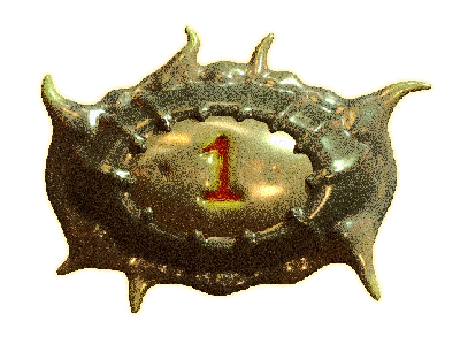
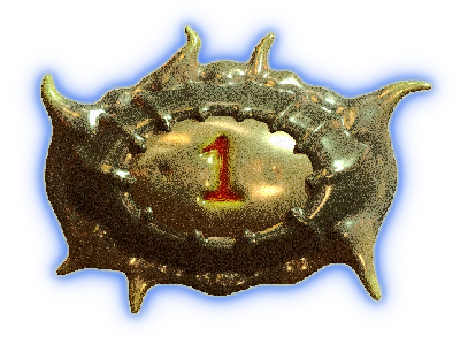
make the transition more seamless
now tot trigger to change a page is a value that goes up and when it arrives at threshhold it still goes up for a second. tI think a beter way would be to trigger it with a true statement that will stays as is even if the value linked to it stiil goup after the threshold. It is all to fix a wierd cut of a fraction of second when i jum to the next page.

Changed region(s): [[0.0609, 0.0291, 0.9739, 0.9593]]

diff --git a/js/menu.js b/js/menu.js
@@ -11,6 +11,8 @@ let game1Blue = {
   height: 180,
   maxY: 280,
   minY: 200,
+  maxX: 480,
+  minX: 420,
 };
 
 let game2Green = {
@@ -42,19 +44,32 @@ let game4Yellow = {
 
 ///////////////////////////CINEMATIC variables////////////////////////////////////
 /////////////////////////////CINEMATIC variables////////////////////////////////////
-menuTitleTimer = 0; ////starts at zero will go up to the limit that will trigger titleOn = false////
+let menuTitleTimer = 0; ////starts at zero will go up to the limit that will trigger titleOn = false////
+let menuClicked = false; ////will be true when mouse is clicked to trigger next event////
 let menuInputEnabled = false; //WHEN false will start opacity7 going Down.
 let menuOpacityImg7 = 255;
+let othertOUCHED = false;
 
 let goGameTimer = 0; ////timer to go to the game after click////
 let fadeOutToGame = 0; ////overall fade to black////
-let fadeOutToGame1 = 0; ////actually a fade in to black////
+let menuOver = false; ///will trigger the next page when true////
+
+let fadeOutToGame1 = 0; ////actually a fade in to black when click on icon////
+let fadeInToGame1 = 0; //this will make a glowing version of the icon when hovering//
+
 let fadeOutToGame2 = 0;
+let fadeInToGame2 = 0;
+
 let fadeOutToGame3 = 0;
+let fadeInToGame3 = 0;
+
 let fadeOutToGame4 = 0;
+let fadeInToGame4 = 0;
 
 ////for the mouvement of the 4 menu icons////
-let speed = 0.2;
+let menuSpeed = 0.2;
+let menuSpeed2 = 0.08;
+let menuSpeed3 = 0.6;
 let direction = 1;
 
 //////////////////////////////////images and visuals////////////////////////////////////////////////////////////////
@@ -68,17 +83,24 @@ let menuImg4;
 let menuImg5;
 let menuImg6;
 let menuImg7;
-
+let menuImg8;
+let menuImg9;
+let menuImg10;
+let menuImg11;
 //////////////////////////////////images and visuals////////////////////////////////////////////////////////////////
 function preload() {
   ////////////////////menu images//////////////////////
-  menuImg1 = loadImage("./assets/images/jeu1.png");
-  menuImg2 = loadImage("./assets/images/jeu22.png");
-  menuImg3 = loadImage("./assets/images/jeu32.png");
-  menuImg4 = loadImage("./assets/images/jeu42.png");
+  menuImg1 = loadImage("./assets/images/jeu11.png");
+  menuImg2 = loadImage("./assets/images/jeu21.png");
+  menuImg3 = loadImage("./assets/images/jeu31.png");
+  menuImg4 = loadImage("./assets/images/jeu41.png");
   menuImg5 = loadImage("./assets/images/ecrandaccueil1sanstexte.png");
   menuImg6 = loadImage("./assets/images/godhand.png");
-  menuImg7 = loadImage("./assets/images/ecrandaccueil1.jpg");
+  menuImg7 = loadImage("./assets/images/ecrandaccueil1.png");
+  menuImg8 = loadImage("./assets/images/jeu22.png");
+  menuImg9 = loadImage("./assets/images/jeu32.png");
+  menuImg10 = loadImage("./assets/images/jeu42.png");
+  menuImg11 = loadImage("./assets/images/jeu1.png");
 
   ////////////////////blue variation images//////////////////////
   blueImg1 = loadImage("./assets/images/auto.jpg");
@@ -129,39 +151,79 @@ function menuDraw() {
   fill(0, 255, 0, 0);
   noStroke();
   image(menuImg5, 0, 0);
+  pop();
 
-  //1TEETHblue-variation//
+  //////////////////////1TEETHblue-variation////////////////////////////
+  pop();
+  tint(255, 255);
   image(menuImg1, game1Blue.x - 195, game1Blue.y - 155);
+  noStroke();
+  fill(0, 0);
   ellipse(game1Blue.x, game1Blue.y, game1Blue.width, game1Blue.height);
+  tint(255, fadeInToGame1);
+  image(menuImg11, game1Blue.x - 195, game1Blue.y - 155);
+  push();
 
-  game1Blue.y += speed * direction;
+  game1Blue.y += menuSpeed * direction;
   if (game1Blue.y > game1Blue.maxY || game1Blue.y < game1Blue.minY) {
     direction *= -1;
   }
 
-  //2OPALgreen-variation//
-  image(menuImg2, game2Green.x - 195, game2Green.y - 155);
+  game1Blue.x += menuSpeed * direction;
+  if (game1Blue.x > game1Blue.maxX || game1Blue.x < game1Blue.minX) {
+    direction *= -1;
+  }
+
+  ///////////////////////2OPALgreen-variation////////////////////////////
+  pop();
+  tint(255, 255);
+  noStroke();
+  fill(0, 0);
+  image(menuImg2, game2Green.x - 195, game2Green.y - 105);
   ellipse(game2Green.x, game2Green.y, game2Green.width, game2Green.height);
+  tint(255, fadeInToGame2);
+  image(menuImg8, game2Green.x - 195, game2Green.y - 105);
+  push();
 
-  game2Green.y += speed * direction;
+  game2Green.y -= menuSpeed2 * direction;
+  game2Green.x -= menuSpeed3 * direction;
 
-  //3LIGHTred-variation//
+  ///////////////////////////3LIGHTred-variation/////////////////////////////
+  pop();
+  tint(255, 255);
   image(menuImg3, game3Red.x - 190, game3Red.y - 225);
+  noStroke();
+  fill(0, 0);
   ellipse(game3Red.x, game3Red.y, game3Red.width, game3Red.height);
+  tint(255, fadeInToGame3);
+  image(menuImg9, game3Red.x - 190, game3Red.y - 225);
+  push();
 
-  game3Red.y += speed * direction;
+  game3Red.y += menuSpeed * direction;
+  game3Red.x -= menuSpeed * direction;
 
-  //4DEVOUTyellow-variation//
+  ////////////////////////4DEVOUTyellow-variation//////////////////////////
+  pop();
+  tint(255, 255);
   image(menuImg4, game4Yellow.x - 190, game4Yellow.y - 155);
+  noStroke();
+  fill(0, 0);
   ellipse(game4Yellow.x, game4Yellow.y, game4Yellow.width, game4Yellow.height);
+  tint(255, fadeInToGame4);
+  image(menuImg10, game4Yellow.x - 190, game4Yellow.y - 155);
+  push();
 
-  game4Yellow.y += speed * direction;
+  game4Yellow.y += menuSpeed2 * direction;
+  game4Yellow.x += menuSpeed2 * direction;
 
+  push();
+  tint(255, 255);
   image(menuImg6, mouseX - 60, mouseY - 60);
   pop();
 
   menuCinematic();
   menuGoToGame();
+  menuCheckInput();
 
   push();
   fill(0, fadeOutToGame);
@@ -171,8 +233,14 @@ function menuDraw() {
 
   text(fadeOutToGame1, 100, 100);
   text(fadeOutToGame2, 200, 100);
-  text(fadeOutToGame3, 300, 100);
-  text(fadeOutToGame4, 400, 100);
+  text(menuInputEnabled, 300, 100);
+  fill(0, 255, 0);
+  text(menuClicked, 400, 100);
+  fill(255);
+  text(fadeInToGame4, 100, 400);
+  text(fadeInToGame3, 200, 400);
+  text(fadeInToGame2, 300, 400);
+  text(othertOUCHED, 400, 400);
   pop();
 }
 
@@ -183,7 +251,7 @@ function menuCinematic() {
   if (menuTitleTimer >= 100) {
     menuOpacityImg7 -= 1.5;
   }
-  if (menuTitleTimer >= 150) {
+  if (menuTitleTimer >= 250) {
     menuInputEnabled = true;
   }
   if (fadeOutToGame1 >= 1) {
@@ -200,6 +268,7 @@ function menuCinematic() {
   }
   if (fadeOutToGame >= 1) {
     fadeOutToGame += 1.5;
+    menuClicked = true;
   }
 }
 
@@ -237,11 +306,68 @@ function menuGoToGame() {
   }
 }
 
+function menuCheckInput() {
+  ///////////////////////////blue icon/////////////////////////
+  let d1Blue = dist(mouseX, mouseY, game1Blue.x, game1Blue.y); //distance from mouse to center of icon
+  if (d1Blue < game1Blue.width / 2) {
+    //if mouse is inside the icon
+    fadeInToGame1 += 15; //increase the glow
+    if (fadeInToGame1 > 255) {
+      //cap the glow to 255
+      fadeInToGame1 = 255;
+    }
+  } else {
+    fadeInToGame1 -= 5; //decrease the glow when mouse is out
+    if (fadeInToGame1 < 0) {
+      //cap the glow to 0
+      fadeInToGame1 = 0;
+    }
+  }
+  //////////////////////////green icon/////////////////////////
+  let d2Green = dist(mouseX, mouseY, game2Green.x, game2Green.y); //
+  if (d2Green < game2Green.width / 2) {
+    fadeInToGame2 += 15;
+    if (fadeInToGame2 > 255) {
+      fadeInToGame2 = 255;
+    }
+  } else {
+    fadeInToGame2 -= 5;
+    if (fadeInToGame2 < 0) {
+      fadeInToGame2 = 0;
+    }
+  }
+  ////////////////////////////////red icon//////////
+  let d3Red = dist(mouseX, mouseY, game3Red.x, game3Red.y);
+  if (d3Red < game3Red.width / 2) {
+    fadeInToGame3 += 15;
+    if (fadeInToGame3 > 255) {
+      fadeInToGame3 = 255;
+    }
+  } else {
+    fadeInToGame3 -= 5;
+    if (fadeInToGame3 < 0) {
+      fadeInToGame3 = 0;
+    }
+  }
+  /////////////////////////yellow icon/////////////////////////
+  let d4Yellow = dist(mouseX, mouseY, game4Yellow.x, game4Yellow.y);
+  if (d4Yellow < game4Yellow.width / 2) {
+    fadeInToGame4 += 15;
+    if (fadeInToGame4 > 255) {
+      fadeInToGame4 = 255;
+    }
+  } else {
+    fadeInToGame4 -= 5;
+    if (fadeInToGame4 < 0) {
+      fadeInToGame4 = 0;
+    }
+  }
+}
 /**
  * This will be called whenever the mouse is pressed while the menu is active
  */
 function menuMousePressed() {
-  if (menuInputEnabled) {
+  if (menuInputEnabled === true || menuClicked === false) {
     //1 blue game//
     let d1Blue = dist(mouseX, mouseY, game1Blue.x, game1Blue.y);
     if (d1Blue < game1Blue.width / 2) {
@@ -254,6 +380,7 @@ function menuMousePressed() {
     if (d2Green < game2Green.width / 2) {
       fadeOutToGame2 += 1;
       fadeOutToGame += 1;
+      othertOUCHED = true;
     }
 
     //3 red game//
@@ -264,8 +391,8 @@ function menuMousePressed() {
     }
 
     //4 yellow game//
-    let d4Blue = dist(mouseX, mouseY, game4Yellow.x, game4Yellow.y);
-    if (d4Blue < game4Yellow.width / 2) {
+    let d4Yellow = dist(mouseX, mouseY, game4Yellow.x, game4Yellow.y);
+    if (d4Yellow < game4Yellow.width / 2) {
       fadeOutToGame4 += 1;
       fadeOutToGame += 1;
     }
@@ -273,7 +400,7 @@ function menuMousePressed() {
 }
 /**
  * Listen to the keyboard
- */ 3;
+ */
 function menuKeyPressed(event) {
   switch (event.keyCode) {
     case 51:
